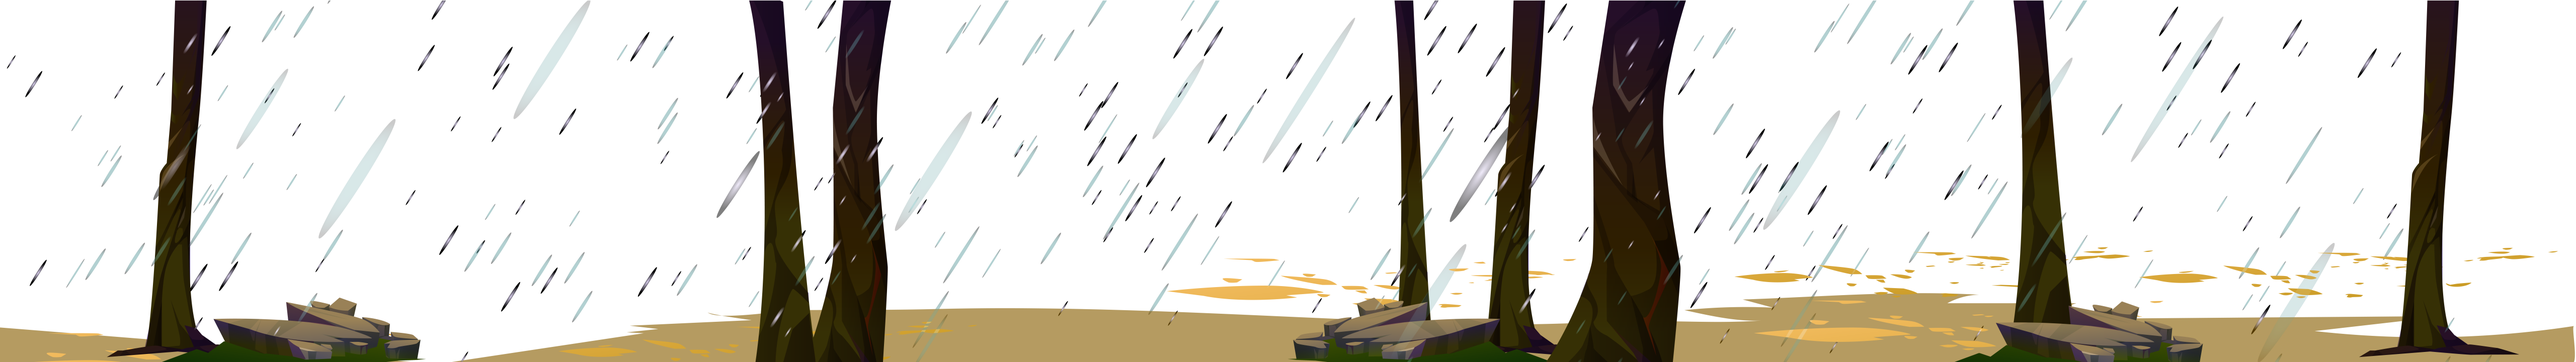
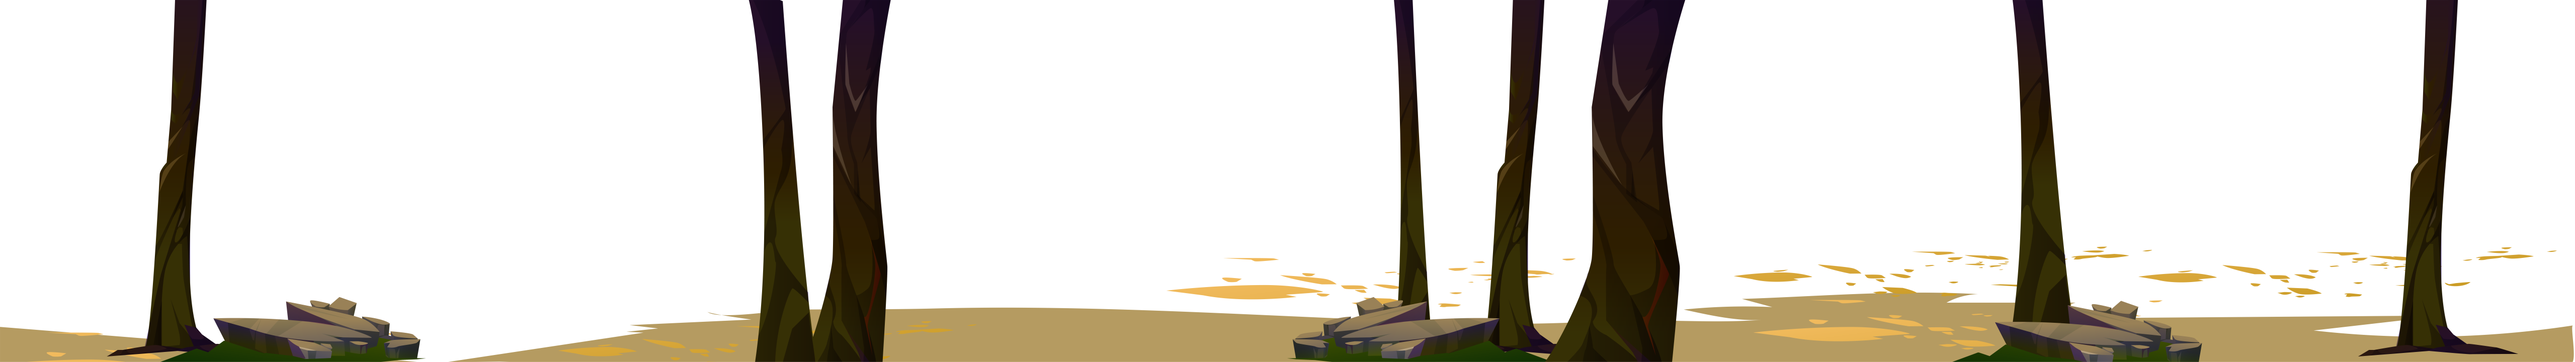
rain and snow complete

diff --git a/src/sustainations_dao_assets/src/app/main/metaverse/scenes/lake/lake_scene1.js b/src/sustainations_dao_assets/src/app/main/metaverse/scenes/lake/lake_scene1.js
@@ -74,8 +74,6 @@ export default class lake_scene1 extends BaseScene {
     this.load.spritesheet('popupWindo', popupWindo, { frameWidth: 980, frameHeight: 799 });
     this.load.image("popupClose", popupClose);
 
-    //Rain
-    this.load.atlas('flares', flares, flaresJson);
 
   }
 
